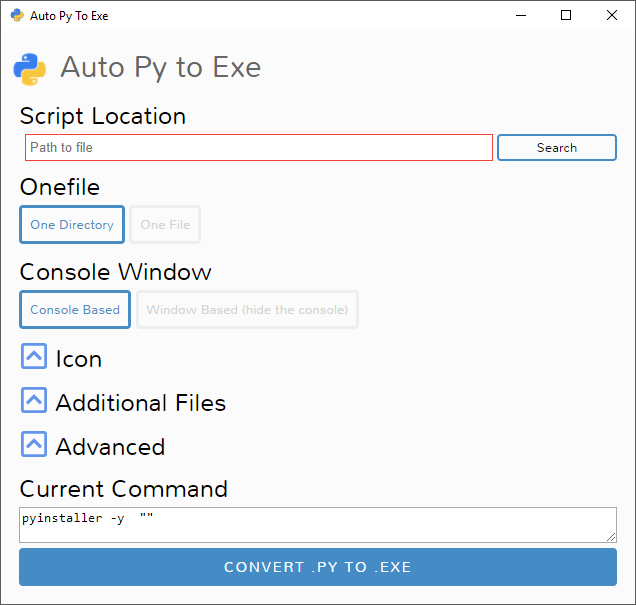
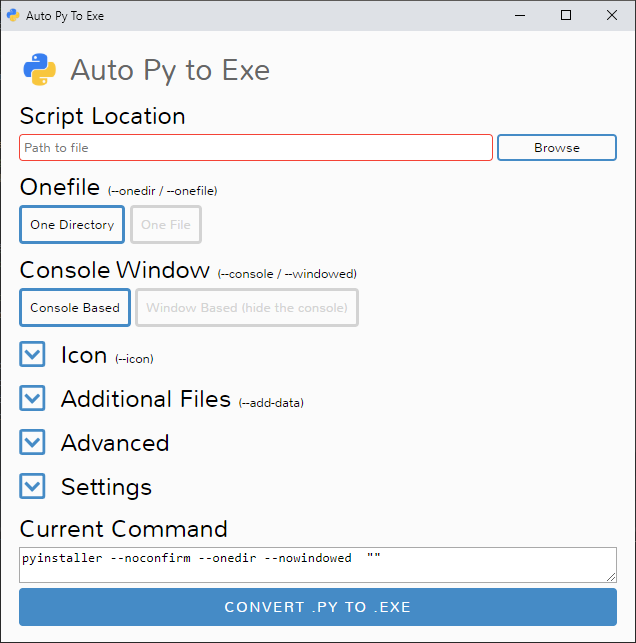
Update auto-py-to-exe images

Changed region(s): [[0.0, 0.0, 1.0, 1.0], [0.0, 0.9818, 0.0299, 1.0]]

diff --git a/posts/auto-py-to-exe/post.md b/posts/auto-py-to-exe/post.md
@@ -15,16 +15,17 @@ This application displays a simple interface that allows you to convert py to ex
 </div>
 
 <div style="text-align: center">
-    <a href="https://pypi.org/project/auto-py-to-exe/"><img style="display: inline;" src="https://img.shields.io/pypi/v/auto-py-to-exe.svg" alt="PyPI Version"></a>
-    <a href="https://pypi.org/project/auto-py-to-exe/"><img style="display: inline;" src="https://img.shields.io/pypi/pyversions/auto-py-to-exe.svg" alt="PyPI Supported Versions"></a>
-    <a href="https://pypi.org/project/auto-py-to-exe/"><img style="display: inline;" src="https://img.shields.io/pypi/l/auto-py-to-exe.svg" alt="License"></a>
-    <a href="http://pepy.tech/project/auto-py-to-exe"><img style="display: inline;" src="http://pepy.tech/badge/auto-py-to-exe" alt="Downloads"></a>
-    <a href="http://pepy.tech/project/auto-py-to-exe"><img style="display: inline;" src="https://img.shields.io/pypi/dm/auto-py-to-exe.svg" alt="Downloads Per Month"></a>
+    <a href="https://pypi.org/project/auto-py-to-exe/"><img class="mt-1" style="display: inline;" src="https://img.shields.io/pypi/v/auto-py-to-exe.svg" alt="PyPI Version"></a>
+    <a href="https://pypi.org/project/auto-py-to-exe/"><img class="mt-1" style="display: inline;" src="https://img.shields.io/pypi/pyversions/auto-py-to-exe.svg" alt="PyPI Supported Versions"></a>
+    <a href="https://pypi.org/project/auto-py-to-exe/"><img class="mt-1" style="display: inline;" src="https://img.shields.io/pypi/l/auto-py-to-exe.svg" alt="License"></a>
+    <a href="http://pepy.tech/project/auto-py-to-exe"><img class="mt-1" style="display: inline;" src="http://pepy.tech/badge/auto-py-to-exe" alt="Downloads"></a>
+    <a href="http://pepy.tech/project/auto-py-to-exe"><img class="mt-1" style="display: inline;" src="https://img.shields.io/pypi/dm/auto-py-to-exe.svg" alt="Downloads Per Month"></a>
+    <a href="https://pyinstaller.readthedocs.io/en/stable/requirements.html"><img class="mt-1" src="https://img.shields.io/badge/platform-windows%20%7C%20linux%20%7C%20macos-lightgrey" alt="Supported Platforms"></a>
 </div>
 
 ## Demo
 
-<video style="width:90%;height:auto;margin:auto;display:block;" controls="">
+<video style="width:90%;height:auto;margin:auto;display:block;" controls="" class="mb-3">
     <source src="/posts/auto-py-to-exe/auto-py-to-exe-demo.mp4" type="video/mp4">
     Your browser does not support the video tag.
 </video>
@@ -91,11 +92,13 @@ If you need something visual to help you get started, [I made a video for the or
 If you're having issues with the packaged executable or using this tool in general, I recommend you read [my blog post on common issues when using auto-py-to-exe](https://nitratine.net/blog/post/issues-when-using-auto-py-to-exe/). This post covers things you should know about packaging Python scripts and fixes for things that commonly go wrong.
 
 ## Screenshots
-![Empty interface](/posts/auto-py-to-exe/empty-interface.png)
 
-![Filled out](/posts/auto-py-to-exe/filled-out.png)
-
-![Converting](/posts/auto-py-to-exe/converting.png)
+<div style="display: grid; grid-template-columns: 1fr 1fr; grid-gap: 6px;">
+    <a href="/posts/auto-py-to-exe/empty-interface.png"><img src="/posts/auto-py-to-exe/empty-interface.png" alt="Empty interface" /></a>
+    <a href="/posts/auto-py-to-exe/filled-out.png"><img src="/posts/auto-py-to-exe/filled-out.png" alt="Filled out" /></a>
+    <a href="/posts/auto-py-to-exe/converting.png"><img src="/posts/auto-py-to-exe/converting.png" alt="Converting" /></a>
+    <a href="/posts/auto-py-to-exe/completed.png"><img src="/posts/auto-py-to-exe/completed.png" alt="Completed" /></a>
+</div>
 
 ## Response
 I really wanted to get this project out there so I released a YouTube video demonstrating how to set up and use the interface (video above). A day later I made a post in the /r/Python subreddit titled ["Auto Py to Exe is Complete"](https://www.reddit.com/r/Python/comments/84kwb8/auto_py_to_exe_is_complete/).
